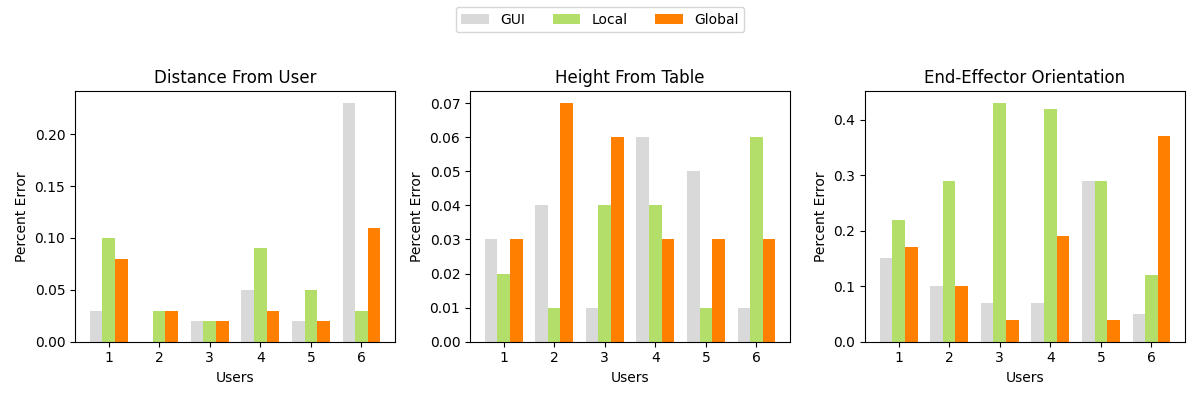
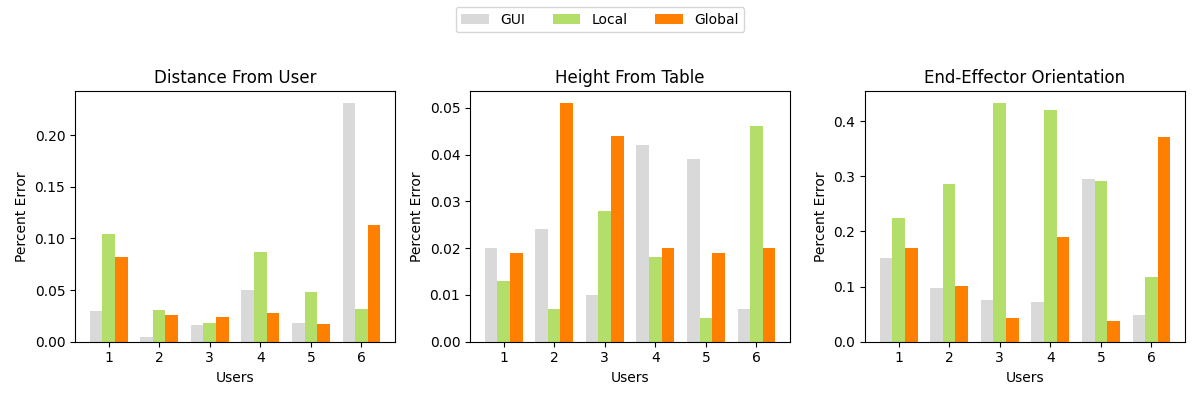
barplotsFixed

diff --git a/plot_error.py b/plot_error.py
@@ -10,18 +10,21 @@ from utils import *
 
 Panda = TrajectoryClient()
 
+def average(lst):
+    return sum(lst) / len(lst)
+
 def region(ax, start_marg, end_marg):
     ax.axvspan(start_marg, end_marg, color='#a1d99b')
 
 def get_idx(X):
-    idx_1 = len(X[X < x_margin_1])
-    idx_2 = idx_1 + len(X[(X > x_margin_1) & (X < x_margin_2)])
+    idx_1 = len(X[X <= x_margin_1])
+    idx_2 = idx_1 + len(X[(X > x_margin_1) & (X <= x_margin_2)])
     idx_3 = idx_2 + len(X[(X > x_margin_2) & (X < x_margin_3)])
     return idx_1, idx_2, idx_3
 
 def mean_error(arr, base):
-    error = np.mean(abs(base - arr)) / len(arr)
-    return np.round(100 * error, 2)
+    error = np.mean(abs(base - arr) / len(arr))
+    return np.round(100 * error, 3)
 
 def quat_error(R):
     diff = []
@@ -35,8 +38,7 @@ Y = {}
 Z = {}
 Quat = {}
 n = 6
-ee_home = -0.2
-h_base = 0.05
+h_base = 0.1
 dist_base = -0.45
 orien_base = 0.0
 
@@ -60,14 +62,14 @@ for method in ["none", "GUI", "local", "global"]:
             z["user_" + str(user_n)] = mean_error(points[2,:][:marg_1_idx], h_base)
             quat["user_" + str(user_n)] = mean_error(quat_error(R[marg_1_idx:marg_2_idx]), orien_base)
             y["user_" + str(user_n)] = mean_error(points[1,:][marg_2_idx:marg_3_idx], dist_base)
-        elif method == "local":
-            quat["user_" + str(user_n)] = mean_error(quat_error(R[:marg_1_idx]), orien_base)
-            z["user_" + str(user_n)] = mean_error(points[2,:][marg_1_idx:marg_2_idx], h_base)
-            y["user_" + str(user_n)] = mean_error(points[1,:][marg_2_idx:marg_3_idx], dist_base)
         elif method == "global":
             z["user_" + str(user_n)] = mean_error(points[2,:][:marg_1_idx], h_base)
             y["user_" + str(user_n)] = mean_error(points[1,:][marg_1_idx:marg_2_idx], dist_base)
             quat["user_" + str(user_n)] = mean_error(quat_error(R[marg_2_idx:marg_3_idx]), orien_base)
+        elif method == "local":
+            quat["user_" + str(user_n)] = mean_error(quat_error(R[:marg_1_idx]), orien_base)
+            z["user_" + str(user_n)] = mean_error(points[2,:][marg_1_idx:marg_2_idx], h_base)
+            y["user_" + str(user_n)] = mean_error(points[1,:][marg_2_idx:marg_3_idx], dist_base)
     X[method] = x
     Y[method] = y
     Z[method] = z
@@ -75,17 +77,18 @@ for method in ["none", "GUI", "local", "global"]:
 
 
 ### user feature errors ###
-GUI_dist_error = Y["GUI"].values()
 GUI_h_error = Z["GUI"].values()
 GUI_orien_error = Quat["GUI"].values()
+GUI_dist_error = Y["GUI"].values()
 
-local_dist_error = Y["local"].values()
-local_h_error = Z["local"].values()
-local_orien_error = Quat["local"].values()
-
-global_dist_error = Y["global"].values()
 global_h_error = Z["global"].values()
+global_dist_error = Y["global"].values()
 global_orien_error = Quat["global"].values()
+
+local_orien_error = Quat["local"].values()
+local_h_error = Z["local"].values()
+local_dist_error = Y["local"].values()
+
 
 ### plot error bars ###
 fig, (ax1, ax2, ax3) = plt.subplots(1, 3, figsize=(12,4))
@@ -129,19 +132,19 @@ plt.savefig("results_plot/users_error.png")
 
 
 ### user mean feature errors ###
-GUI_dist_error_mean = np.mean(list(GUI_dist_error))
-GUI_h_error_mean = np.mean(list(GUI_h_error))
-GUI_orien_error_mean = np.mean(list(GUI_orien_error))
+GUI_dist_error_mean = average(list(GUI_dist_error))
+GUI_h_error_mean = average(list(GUI_h_error))
+GUI_orien_error_mean = average(list(GUI_orien_error))
 GUI_mean = [GUI_dist_error_mean, GUI_h_error_mean, GUI_orien_error_mean]
 
-local_dist_error_mean = np.mean(list(local_dist_error))
-local_h_error_mean = np.mean(list(local_h_error))
-local_orien_error_mean = np.mean(list(local_orien_error))
+local_dist_error_mean = average(list(local_dist_error))
+local_h_error_mean = average(list(local_h_error))
+local_orien_error_mean = average(list(local_orien_error))
 local_mean = [local_dist_error_mean, local_h_error_mean, local_orien_error_mean]
 
-global_dist_error_mean = np.mean(list(global_dist_error))
-global_h_error_mean = np.mean(list(global_h_error))
-global_orien_error_mean = np.mean(list(global_orien_error))
+global_dist_error_mean = average(list(global_dist_error))
+global_h_error_mean = average(list(global_h_error))
+global_orien_error_mean = average(list(global_orien_error))
 global_mean = [global_dist_error_mean, global_h_error_mean, global_orien_error_mean]
 
 
